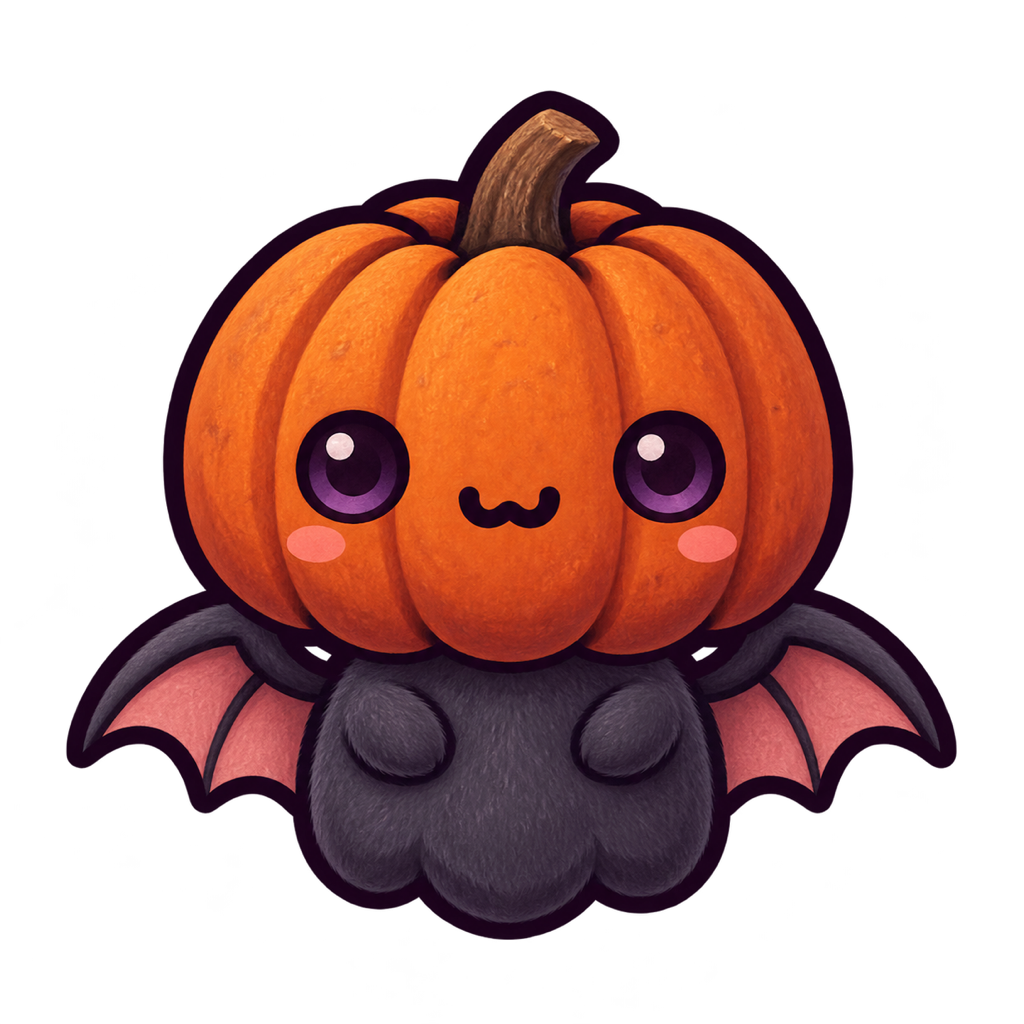
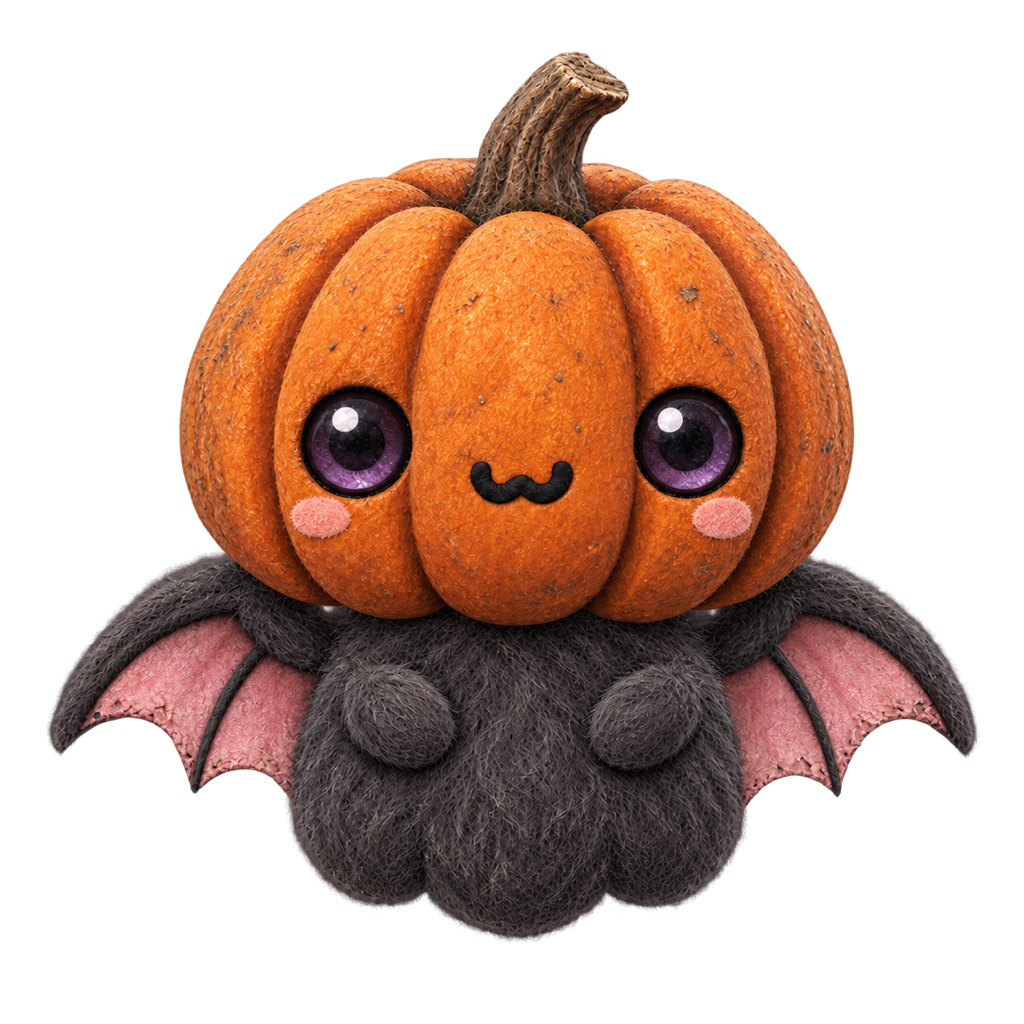
Batty Booha

diff --git a/js/muenba.js b/js/muenba.js
@@ -7932,7 +7932,7 @@
       wandererCacheBudgetBytes: 0,
       roomLoadDecodeMs: 0,
       activeAudioBufferCount: [rhythmHitAudioBuffer, rhythmMissAudioBuffer].filter(Boolean).length,
-      serviceWorkerCacheVersion: 'booha-assets-2026-566',
+      serviceWorkerCacheVersion: 'booha-assets-2026-567',
       averageFps: worldPerf.metrics().averageFps,
     }));
     scheduleMuenbaFrame();

diff --git a/sw.js b/sw.js
@@ -197,7 +197,8 @@ const CURRENT_CACHES = {
   // the existing network-first page/script path.
   // Family Room Pass 3: the andon/light-pressure rules are script-only; no new
   // install-time media is required.
-  assets: 'booha-assets-2026-566',
+  // Batty Booha photoreal static-sprite refresh (2026-09-18).
+  assets: 'booha-assets-2026-567',
   decks:  'booha-decks-2026-310',
 };
 

diff --git a/js/utsuroba.js b/js/utsuroba.js
@@ -4097,7 +4097,7 @@
       wandererCacheBudgetBytes: 0,
       roomLoadDecodeMs: 0,
       activeAudioBufferCount: 0,
-      serviceWorkerCacheVersion: 'booha-assets-2026-566',
+      serviceWorkerCacheVersion: 'booha-assets-2026-567',
       averageFps: worldPerf.metrics().averageFps,
     }));
     worldInitialized = true;
